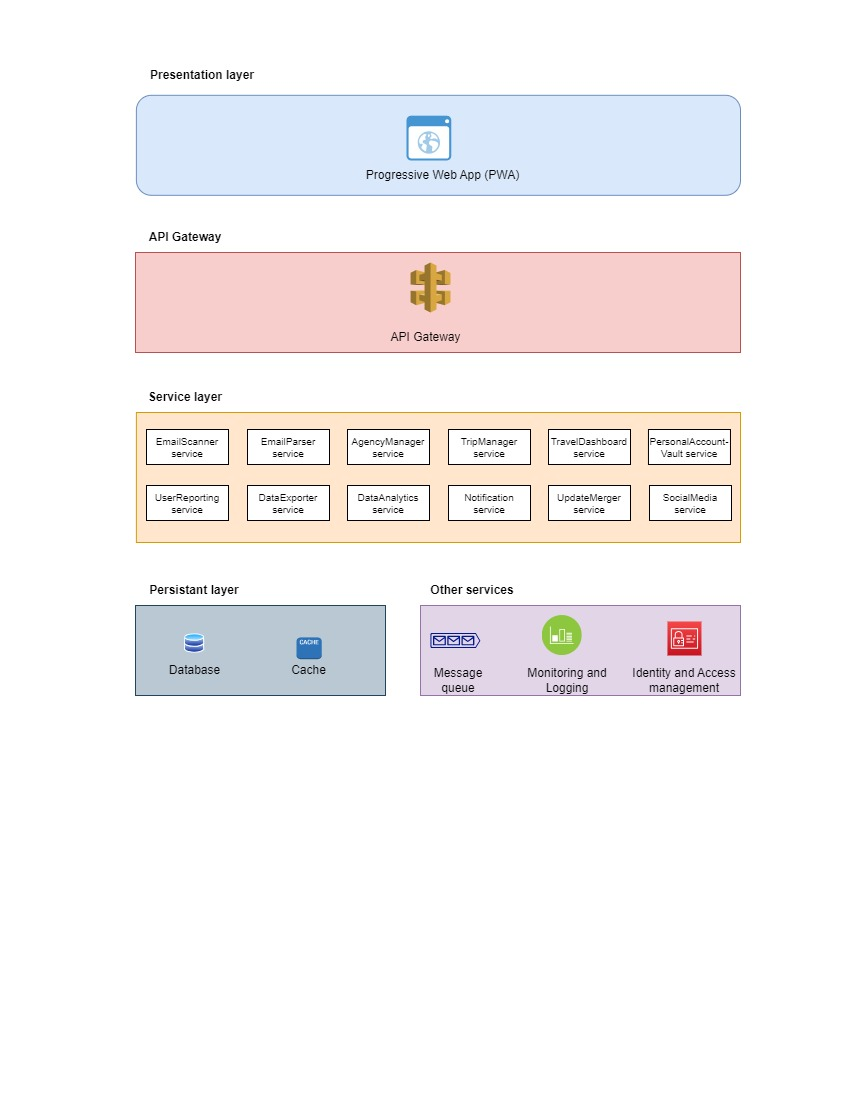
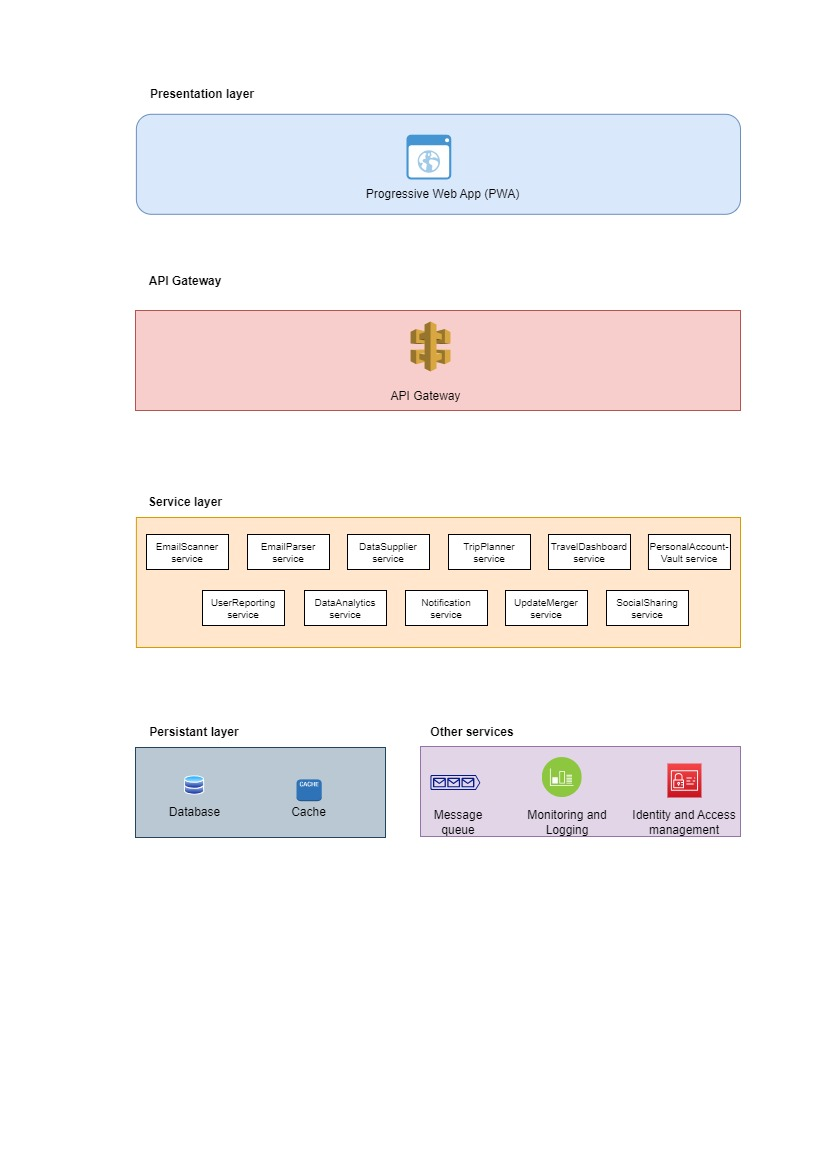
ARCH-KATA-06-Identify-Arch-Quanta
minor corrections to services

Changed region(s): [[0.1511, 0.0618, 0.9069, 0.7418]]

diff --git a/quanta/logical-quanta.md b/quanta/logical-quanta.md
@@ -11,7 +11,8 @@
 	* Deployment process is seamless and does not depend on app stores
 	
 	![images](../diagrams/Logical-Architecture-Charateristics.jpg)
-
+	![images](../diagrams/pwa-vs-nativeapp.jpg)
+	
 *  **API Gateway**
 	API gateway to act as a single entry point for collection of microservices.
 	Central entity to manage, route and secure API requests and responses.
@@ -31,31 +32,28 @@
 	* Publish relevent emails to a message queue.
   * EmailParser
 	* Read email from the message queue and parses to collect relevent data.
-	* Data is the pushed to persistent layer for storage.
-  * AgencyManager
+	* Cleaned, unified data is then pushed to message queue to be consumed by UpdateMerger service.
+  * DataSupplier
 	* This service communicates with various Agency API's.
 	* Received data is parsed and stored in storage.
-  * TripManager
+  * TripPlanner
 	* Manage various user trips.
 	* Prioratization of trips based various parameters.
 	* Allow updates to user trips.
   * TravelDashboard
-   * Construct data structures to be served to the Dashboard. 
+	* Construct dataset to be served to the Dashboard.
+	* Provide optimized dataset that is relevent for the caller.
   * PersonalAccountVault
-	* Manage user account details.
+	* Vault to manage user accounts.
   * UserReporting
 	* Reporting service to build data structures for user reporting.
-  * DataExporter
-	* This service is responsible to construct data required by external entities, like Airlines, hotels, etc.
-	* Integrate with respective webservices to send processed data from RoadWarrior to interested parties.
   * DataAnalytics
 	* Perform data analytics on data.
 	* With help of machine learning devise travel trends, preferred locations, communtation modes, etc.
   * Notification
 	* Central hub to perform all notification tasks via various services, like push notification, email, WhatsApp, SMS. etc.
   * UpdateMerger
-	* Identify duplicate trips
-	* Merge data from duplicate trips and ensure data integrity
-  * SocialMedia
-	* Single getway to post/ share user trip data to various social media platforms, like X (formerly Twitter), Facebook, Instagram, etc.
-	* Pre-authorize access to user social media account for efficient usage.
+	* Identify duplicate trips.
+	* Merge data from duplicate trips and ensure data integrity.
+  * SocialSharing
+	* Common interface to post/ share user trip data to various social media platforms, like X (formerly Twitter), Facebook, Instagram, etc.
